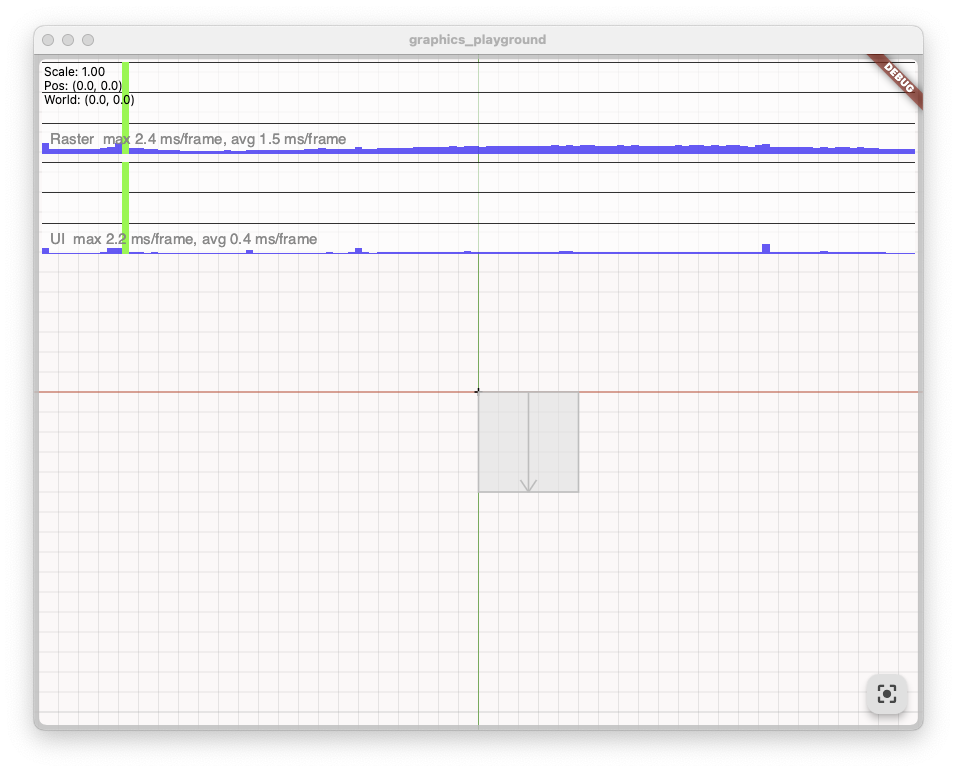
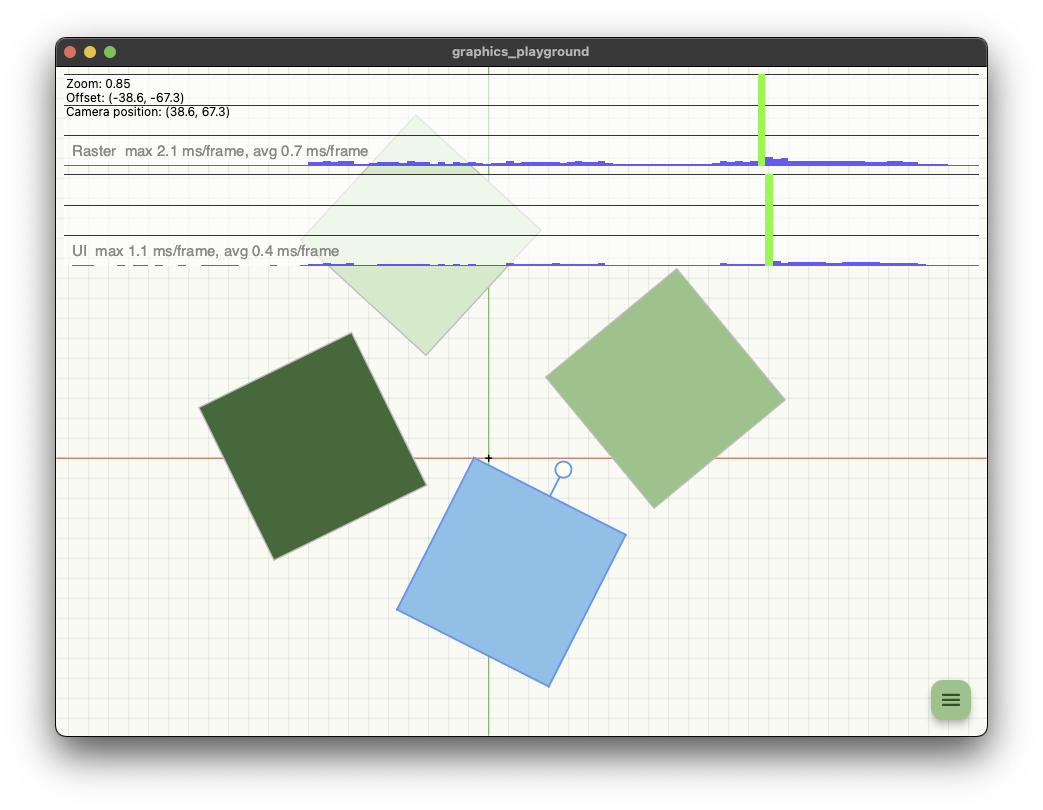
change: view frustum culling, gizmo optimization, new preview

Changed region(s): [[0.0303, 0.0311, 0.9697, 0.9637], [0.5758, 0.3109, 0.6061, 0.342]]

diff --git a/lib/main.dart b/lib/main.dart
@@ -1,3 +1,5 @@
+import 'dart:math' as math;
+
 import 'package:flutter/foundation.dart';
 import 'package:flutter/material.dart';
 import 'package:graphics_playground/core/develop/performance_overlay_painter.dart';
@@ -37,6 +39,9 @@ final class PlaygroundWidget extends StatefulWidget {
 
 /// State for widget PlaygroundWidget
 class _PlaygroundWidgetState extends State<PlaygroundWidget> {
+  static const _squareExtent = 200.0;
+  static const _squareGap = 16.0;
+
   final scene = GvScene();
 
   bool initItemsAdd = true;
@@ -70,31 +75,64 @@ class _PlaygroundWidgetState extends State<PlaygroundWidget> {
     super.dispose();
   }
 
+  void _addSquareGrid(int count, ColorScheme colors) {
+    final columns = math.sqrt(count).ceil();
+    final rows = (count / columns).ceil();
+    const stride = _squareExtent + _squareGap;
+    final origin = Offset(-(columns - 1) * stride / 2, -(rows - 1) * stride / 2);
+    final palette = <Color>[
+      colors.primary,
+      colors.primaryContainer,
+      colors.secondary,
+      colors.secondaryContainer,
+      colors.tertiary,
+      colors.tertiaryContainer,
+    ];
+
+    scene.bulkAddItems(
+      Iterable.generate(count, (index) {
+        final column = index % columns;
+        final row = index ~/ columns;
+
+        return QuadPrimitiveObject(
+          worldPosition: origin + Offset(column * stride, row * stride),
+          backgroundColor: palette[(row + column) % palette.length],
+        );
+      }),
+    );
+  }
+
   @override
   Widget build(BuildContext context) {
     return Scaffold(
       drawer: Builder(
         builder: (context) {
+          final colors = ColorScheme.of(context);
+
           return Drawer(
-            child: GridView(
-              gridDelegate: const SliverGridDelegateWithFixedCrossAxisCount(crossAxisCount: 2),
-              children: [
-                GestureDetector(
-                  onTap: () {
-                    Scaffold.of(context).closeDrawer();
-                    scene.addItem(QuadPrimitiveObject(worldPosition: Offset(-100, -100), backgroundColor: Colors.blue));
-                  },
-                  child: Card(
-                    child: Padding(
-                      padding: const EdgeInsets.all(8.0),
-                      child: ColoredBox(color: Colors.blue),
-                    ),
+            child: SafeArea(
+              child: ListView(
+                padding: const EdgeInsets.all(16),
+                children: [
+                  Text('Добавить на сцену', style: Theme.of(context).textTheme.titleLarge),
+                  const SizedBox(height: 16),
+                  _SquareBatchTile(
+                    count: 1,
+                    color: colors.primary,
+                    onPressed: () {
+                      scene.addItem(
+                        QuadPrimitiveObject(worldPosition: const Offset(-100, -100), backgroundColor: colors.primary),
+                      );
+                    },
                   ),
-                ),
-                Card(
-                  child: Padding(padding: const EdgeInsets.all(8.0), child: Placeholder()),
-                ),
-              ],
+                  _SquareBatchTile(count: 1000, color: colors.secondary, onPressed: () => _addSquareGrid(1000, colors)),
+                  _SquareBatchTile(
+                    count: 10000,
+                    color: colors.tertiary,
+                    onPressed: () => _addSquareGrid(10000, colors),
+                  ),
+                ],
+              ),
             ),
           );
         },
@@ -120,6 +158,30 @@ class _PlaygroundWidgetState extends State<PlaygroundWidget> {
               ),
             ],
           );
+        },
+      ),
+    );
+  }
+}
+
+class _SquareBatchTile extends StatelessWidget {
+  const _SquareBatchTile({required this.count, required this.color, required this.onPressed});
+
+  final int count;
+  final Color color;
+  final VoidCallback onPressed;
+
+  @override
+  Widget build(BuildContext context) {
+    return Card(
+      clipBehavior: Clip.antiAlias,
+      child: ListTile(
+        leading: SizedBox.square(dimension: 32, child: ColoredBox(color: color)),
+        title: Text('$count ${count == 1 ? 'квадрат' : 'квадратов'}'),
+        subtitle: count == 1 ? null : const Text('Равномерная квадратная сетка'),
+        onTap: () {
+          Navigator.of(context).pop();
+          onPressed();
         },
       ),
     );

diff --git a/lib/core/rendering/transform_gizmo.dart b/lib/core/rendering/transform_gizmo.dart
@@ -3,7 +3,6 @@ import 'dart:math' as math;
 import 'package:flutter/foundation.dart';
 import 'package:flutter/gestures.dart';
 import 'package:flutter/material.dart';
-import 'package:flutter/rendering.dart';
 import 'package:graphics_playground/core/gesture/gesture.dart';
 import 'package:graphics_playground/core/gesture/viewport_pointer_event.dart';
 import 'package:graphics_playground/core/painter_context.dart';
@@ -11,6 +10,8 @@ import 'package:graphics_playground/core/rendering/gv_painter.dart';
 
 abstract interface class TransformGizmoTarget {
   Rect get localBounds;
+
+  Rect get worldBounds;
 
   Offset localToWorld(Offset point);
 
@@ -44,11 +45,15 @@ final class TransformGizmo extends GvPainterObject implements GvPointerHandler {
     ..style = PaintingStyle.fill;
 
   int? _pointer;
-  Offset _pivotWorld = .zero;
-  Offset _renderPivotWorld = .zero;
+
+  // Положение якоря
+  Offset _pivotWorldPosition = .zero;
+
+  // Положение якоря для отрисовки
+  Offset _renderPivotWorldPosition = .zero;
+
   Offset _upperWorld = .zero;
   Offset _handleWorld = .zero;
-  Offset _handleScreen = .zero;
 
   double _lastAngle = 0;
   double _accumulatedAngle = 0;
@@ -66,15 +71,17 @@ final class TransformGizmo extends GvPainterObject implements GvPointerHandler {
 
       _updateGeometry();
 
-      if ((event.screenPosition - _handleScreen).distance > 10) {
+      // Рассчитывает расстояние между точкой касания и центром "ручки"
+      // Радиус ручки равен 8
+      if ((event.worldPosition - _handleWorld).distance > 10) {
         return .ignore;
       }
 
-      _pivotWorld = _renderPivotWorld;
+      _pivotWorldPosition = _renderPivotWorldPosition;
       _pointer = origin.pointer;
       item.copyTransformInto(_initialTransform);
 
-      _lastAngle = _angleAroundPivot(event.worldPosition, _pivotWorld);
+      _lastAngle = _angleAroundPivot(event.worldPosition, _pivotWorldPosition);
       _accumulatedAngle = 0;
 
       return .capture;
@@ -83,15 +90,15 @@ final class TransformGizmo extends GvPainterObject implements GvPointerHandler {
     if (origin.pointer != _pointer || item == null) return .ignore;
 
     if (origin is PointerMoveEvent) {
-      final angle = _angleAroundPivot(event.worldPosition, _pivotWorld);
+      final angle = _angleAroundPivot(event.worldPosition, _pivotWorldPosition);
       _accumulatedAngle += _normalize(angle - _lastAngle);
       _lastAngle = angle;
 
       _rotationTransform
         ..setIdentity()
-        ..translateByDouble(_pivotWorld.dx, _pivotWorld.dy, 0, 1)
+        ..translateByDouble(_pivotWorldPosition.dx, _pivotWorldPosition.dy, 0, 1)
         ..rotateZ(_accumulatedAngle)
-        ..translateByDouble(-_pivotWorld.dx, -_pivotWorld.dy, 0, 1);
+        ..translateByDouble(-_pivotWorldPosition.dx, -_pivotWorldPosition.dy, 0, 1);
 
       _resultTransform
         ..setFrom(_rotationTransform)
@@ -130,10 +137,10 @@ final class TransformGizmo extends GvPainterObject implements GvPointerHandler {
     final item = target!;
     final bounds = item.localBounds;
 
-    _renderPivotWorld = item.localToWorld(bounds.center);
+    _renderPivotWorldPosition = item.localToWorld(bounds.center);
     _upperWorld = item.localToWorld(bounds.bottomCenter);
 
-    final pivotScreen = viewport.worldToScreen(_renderPivotWorld);
+    final pivotScreen = viewport.worldToScreen(_renderPivotWorldPosition);
     final upperScreen = viewport.worldToScreen(_upperWorld);
 
     final vector = upperScreen - pivotScreen;
@@ -141,8 +148,7 @@ final class TransformGizmo extends GvPainterObject implements GvPointerHandler {
 
     final normalizedVector = vector / vector.distance;
 
-    _handleScreen = upperScreen + (normalizedVector * 30);
-    _handleWorld = viewport.screenToWorld(_handleScreen);
+    _handleWorld = viewport.screenToWorld(upperScreen + (normalizedVector * 30));
   }
 
   void _updateSelectionBounds(TransformGizmoTarget? target) {

diff --git a/lib/core/rendering/gv_scene.dart b/lib/core/rendering/gv_scene.dart
@@ -10,9 +10,7 @@ import 'package:graphics_playground/core/rendering/gv_painter.dart';
 import 'package:graphics_playground/core/rendering/transform_gizmo.dart';
 import 'package:graphics_playground/core/viewport/viewport_context.dart';
 
-class GvScene extends GvPainterObject with ChangeNotifier implements GvOwner {
-  GvScene();
-
+final class GvScene extends GvPainterObject with ChangeNotifier implements GvOwner {
   @protected
   final children = <CanvasItem>[];
 
@@ -32,12 +30,16 @@ class GvScene extends GvPainterObject with ChangeNotifier implements GvOwner {
   }
 
   void bulkAddItems(Iterable<CanvasItem> items) {
+    for (final item in items) {
+      if (attached) item.mount(this);
+    }
     children.addAll(items);
     requestFrame();
   }
 
   void addItem(CanvasItem item) {
     children.add(item);
+    if (attached) item.mount(this);
     requestFrame();
   }
 
@@ -92,9 +94,16 @@ class GvScene extends GvPainterObject with ChangeNotifier implements GvOwner {
     return true;
   }
 
+  @protected
+  bool viewFrustumCulling(CanvasItem item) {
+    final rect = viewport.getWorldRect();
+
+    return rect.overlaps(item.worldBounds);
+  }
+
   @override
   void paint(GVPainterContext context) {
-    for (final item in children) {
+    for (final item in children.where(viewFrustumCulling)) {
       item.paint(context);
     }
 
@@ -109,6 +118,7 @@ class GvScene extends GvPainterObject with ChangeNotifier implements GvOwner {
 
   @override
   void dispose() {
+    gizmo.onDetach();
     for (final item in children) {
       item.unmount(this);
       item.dispose();
@@ -118,7 +128,6 @@ class GvScene extends GvPainterObject with ChangeNotifier implements GvOwner {
   }
 
   @protected
-  @nonVirtual
   bool hitTestItem(ViewportPointerEvent event) {
     if (children.isEmpty) return false;
 

diff --git a/lib/core/foundation/raw_rect.dart b/lib/core/foundation/raw_rect.dart
@@ -2,6 +2,7 @@ import 'dart:math' as math;
 import 'dart:typed_data';
 
 import 'package:flutter/rendering.dart';
+import 'package:meta/meta.dart';
 
 extension type const RawRect(Float32List _raw) {
   factory RawRect.fromLTRB(double left, double top, double right, double bottom) {
@@ -13,9 +14,13 @@ extension type const RawRect(Float32List _raw) {
     return RawRect(storage);
   }
 
+  factory RawRect.view(RawRect value) {
+    return RawRectView(value.storage);
+  }
+
   static final zero = RawRect.fromLTRB(0, 0, 0, 0);
 
-  Float32List get storage => _raw;
+  Float32List get storage => Float32List.view(_raw.buffer);
 
   void setFrom(Rect rect) {
     _raw[0] = rect.left;
@@ -61,5 +66,36 @@ extension type const RawRect(Float32List _raw) {
 
   bool contains(Offset offset) {
     return offset.dx >= left && offset.dx < right && offset.dy >= top && offset.dy < bottom;
+  }
+
+  bool overlaps(Rect other) {
+    if (right <= other.left || other.right <= left) {
+      return false;
+    }
+    if (bottom <= other.top || other.bottom <= top) {
+      return false;
+    }
+    return true;
+  }
+}
+
+extension type RawRectView(Float32List _raw) implements RawRect {
+  @redeclare
+  void setFromPoints(Offset a, Offset b) {
+    _throwUnmodifiableException();
+  }
+
+  @redeclare
+  void setFromDouble(double left, double top, double right, double bottom) {
+    _throwUnmodifiableException();
+  }
+
+  @redeclare
+  void setFrom(Rect rect) {
+    _throwUnmodifiableException();
+  }
+
+  Never _throwUnmodifiableException() {
+    throw StateError('View is unmodifiable');
   }
 }

diff --git a/lib/core/viewport/viewport.dart b/lib/core/viewport/viewport.dart
@@ -1,11 +1,9 @@
-import 'dart:typed_data';
-
 import 'package:flutter/foundation.dart' as foundation;
 import 'package:flutter/rendering.dart';
 import 'package:graphics_playground/core/foundation/raw_rect.dart';
 
 class Viewport2D with foundation.ChangeNotifier {
-  final _worldRect = Float32List(4);
+  final _worldRect = RawRect.zero;
   Size viewportSize = Size.zero;
   Offset _position = Offset.zero;
   double _scale = 1.0;
@@ -43,10 +41,7 @@ class Viewport2D with foundation.ChangeNotifier {
       ..scale(_scale, -_scale)
       ..translate(_position.dx, _position.dy);
     final rect = canvas.getLocalClipBounds();
-    _worldRect[0] = rect.left;
-    _worldRect[1] = rect.top;
-    _worldRect[2] = rect.right;
-    _worldRect[3] = rect.bottom;
+    _worldRect.setFrom(rect);
   }
 
   @pragma('vm:prefer-inline')
@@ -58,7 +53,7 @@ class Viewport2D with foundation.ChangeNotifier {
   double _constraintScale(double scale) => scale.clamp(0.1, 10.0);
 
   @pragma('vm:prefer-inline')
-  RawRect getWorldRect() => RawRect(_worldRect);
+  RawRect getWorldRect() => RawRect.view(_worldRect);
 
   @pragma('vm:prefer-inline')
   Offset worldToScreen(Offset worldPoint) {

diff --git a/lib/core/rendering/canvas_item.dart b/lib/core/rendering/canvas_item.dart
@@ -26,6 +26,11 @@ abstract class CanvasItem implements TransformGizmoTarget, GvPointerHandler {
     return MatrixUtils.transformPoint(_modelTransform, Offset.zero);
   }
 
+  @override
+  Rect get worldBounds {
+    return MatrixUtils.transformRect(_modelTransform, localBounds);
+  }
+
   // MARK: manipulate
   set worldPosition(Offset value) {
     if (worldPosition == value) return;
